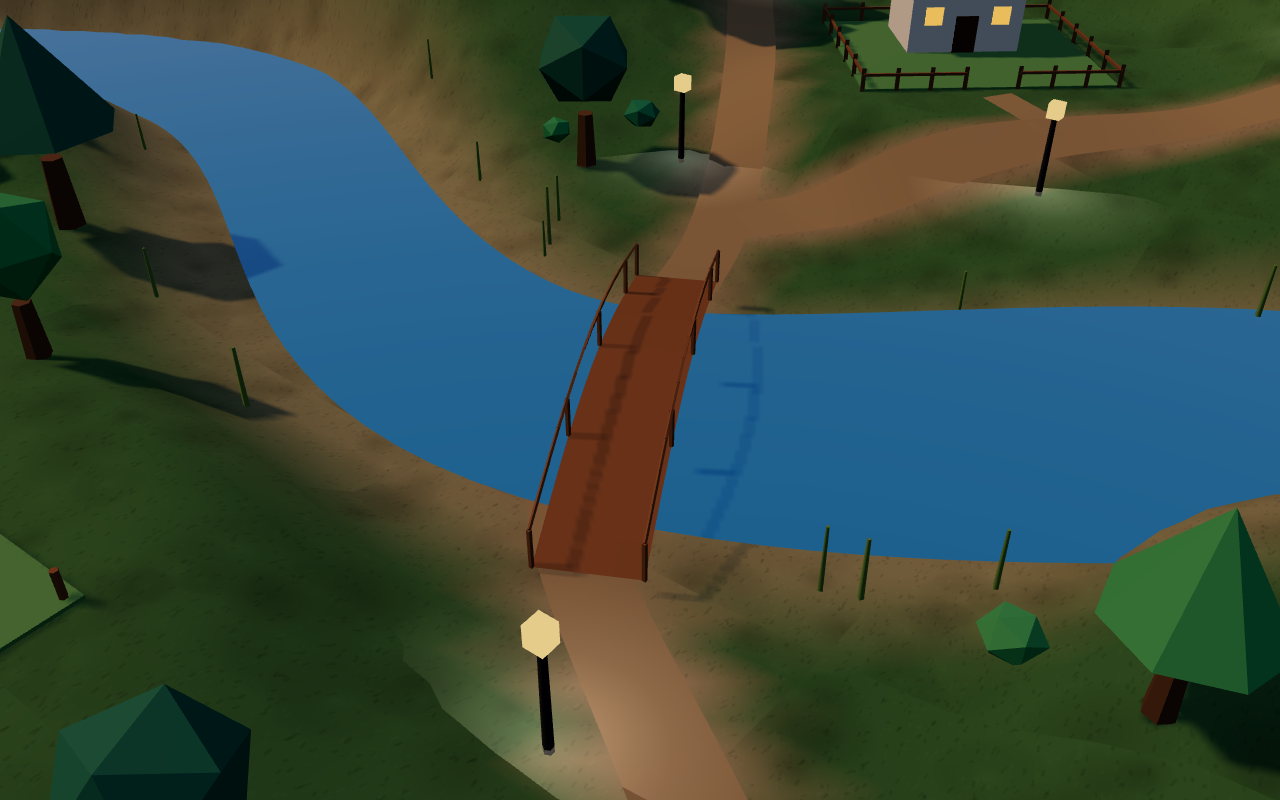
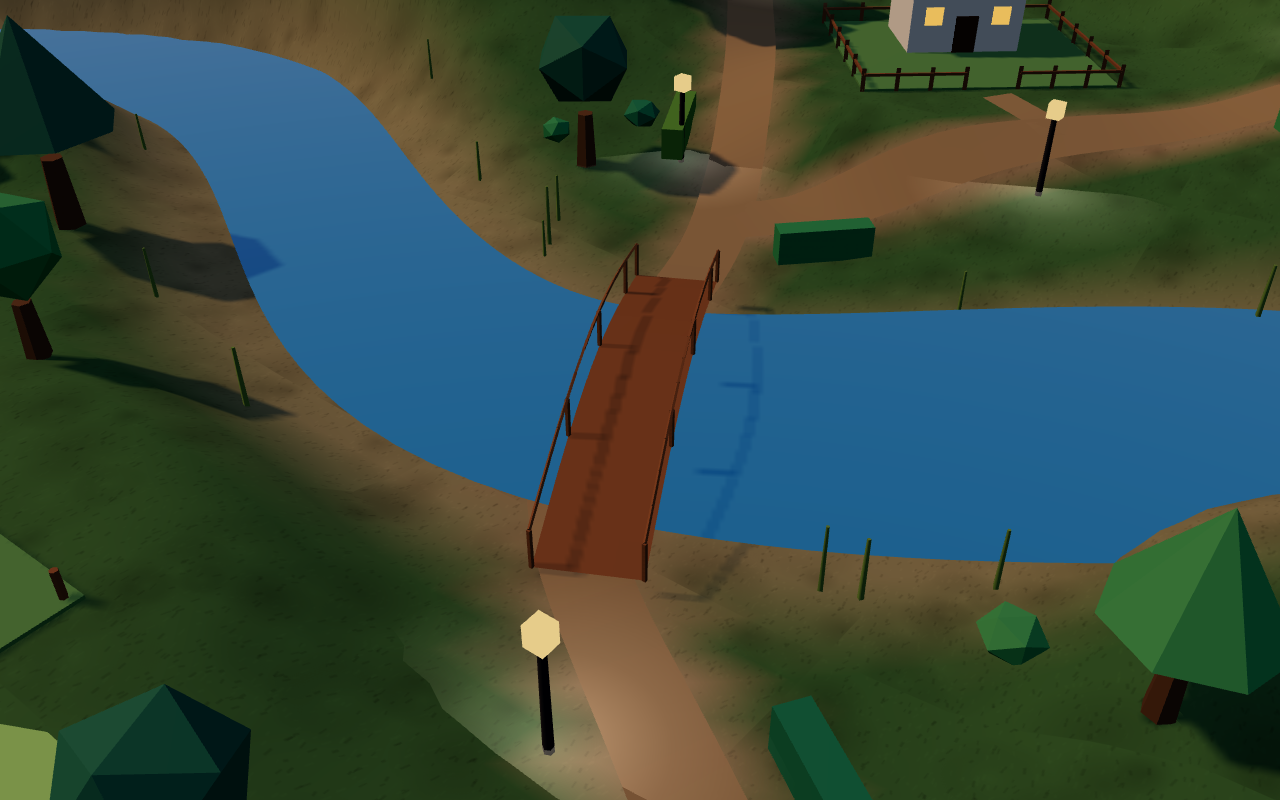
L.6 Hecken und Blumenwiesen
Kurze Heckenreihen neben den Wegen, flache Blumenflecken auf ebenem Boden.

diff --git a/web/src/world/scatter.ts b/web/src/world/scatter.ts
@@ -208,3 +208,84 @@ export function placeFlowers(layout: Layout, maxFlowers = 120): Scatter[] {
   }
   return out;
 }
+
+/** A clipped hedge beside a lane: a short row, turned along the lane. */
+export interface Hedge extends Scatter {
+  len: number;
+}
+
+/**
+ * Hedges along the lanes (LOOK §8): about every 3.6 m of lane, on one side, 1.6 m from the centre line.
+ * Half of the spots stay empty, so the hedges come in short rows.
+ */
+export function placeHedges(layout: Layout, maxHedges = 60): Hedge[] {
+  const rng = createRng(layout.seed * 223 + 23);
+  const s = layout.laneSamples;
+  const out: Hedge[] = [];
+  const step = 3;
+  for (let i = 4; i < s.length - 4 && out.length < maxHedges; i += step) {
+    if (rng() < 0.5) continue;
+    const a = s[i - 1];
+    const b = s[i + 1];
+    const tx = b.x - a.x;
+    const tz = b.z - a.z;
+    const l = Math.hypot(tx, tz) || 1;
+    const side = rng() < 0.5 ? 1 : -1;
+    const off = 1.6 + rng() * 0.3;
+    const x = s[i].x - (tz / l) * off * side;
+    const z = s[i].z + (tx / l) * off * side;
+    if (!freeForNature(layout, x, z, 1.4)) continue;
+    out.push({
+      x,
+      z,
+      y: layout.terrain.groundHeight(x, z),
+      scale: 1,
+      rot: Math.atan2(tx, tz),
+      len: 2.4 + rng() * 1.2,
+    });
+  }
+  return out;
+}
+
+/** A blossom meadow: a flat patch on free ground with a few flowers scattered on it. */
+export interface Meadow {
+  x: number;
+  z: number;
+  y: number;
+  radius: number;
+  flowers: Array<{ x: number; y: number; z: number; colour: number }>;
+}
+
+/** Meadows on free ground away from paths, plots and water. Flowers stay inside the radius. */
+export function placeMeadows(layout: Layout, maxMeadows = 14): Meadow[] {
+  const rng = createRng(layout.seed * 229 + 29);
+  const out: Meadow[] = [];
+  for (let tries = 0; tries < 4000 && out.length < maxMeadows; tries++) {
+    const x = (rng() - 0.5) * VALLEY_RADIUS * 2;
+    const z = (rng() - 0.5) * VALLEY_RADIUS * 2;
+    if (!freeForNature(layout, x, z, 3.5)) continue;
+    if (out.some((m) => Math.hypot(m.x - x, m.z - z) < 9)) continue;
+    const radius = 2.2 + rng() * 1.2;
+    // flat ground only: the flat patch would sink into a slope
+    const h0 = layout.terrain.groundHeight(x, z);
+    const level = [0, 1, 2, 3].every((k) => {
+      const q = (k * Math.PI) / 2 + 0.4;
+      const h = layout.terrain.groundHeight(x + Math.cos(q) * radius * 0.9, z + Math.sin(q) * radius * 0.9);
+      return Math.abs(h - h0) < 0.2;
+    });
+    if (!level) continue;
+    const count = 9 + Math.floor(rng() * 6);
+    const flowers: Meadow['flowers'] = [];
+    for (let k = 0; k < count; k++) {
+      const a = rng() * Math.PI * 2;
+      const r = Math.sqrt(rng()) * radius * 0.9;
+      const fx = x + Math.cos(a) * r;
+      const fz = z + Math.sin(a) * r;
+      if (!freeForNature(layout, fx, fz, 2.0)) continue;
+      flowers.push({ x: fx, y: layout.terrain.groundHeight(fx, fz), z: fz, colour: Math.floor(rng() * 5) });
+    }
+    if (flowers.length < 4) continue;
+    out.push({ x, z, y: layout.terrain.groundHeight(x, z), radius, flowers });
+  }
+  return out;
+}

diff --git a/web/src/render/nature.ts b/web/src/render/nature.ts
@@ -8,7 +8,9 @@ import type { Layout } from '../world/layout';
 import {
   placeBushes,
   placeFlowers,
+  placeHedges,
   placeLamps,
+  placeMeadows,
   placeReeds,
   placeRocks,
   placeTrees,
@@ -171,6 +173,7 @@ export function buildNature(layout: Layout): THREE.Group {
 
 const BUSH = ['#3f8f5a', '#4d9a5d', '#2f7d5b', '#5d8f3e'];
 const FLOWER = ['#f2c94c', '#eb5757', '#f2a7d0', '#ffffff', '#bb6bd9'];
+const MEADOW = ['#a9d17a', '#93c26a', '#b8d98a'];
 
 /** Shrubs, rocks, reeds and flower patches (SPEC §10.6), all as instanced meshes. */
 export function buildVegetation(layout: Layout): THREE.Group {
@@ -229,6 +232,42 @@ export function buildVegetation(layout: Layout): THREE.Group {
     ),
   );
 
+  // hedges: clipped rows beside the lanes (LOOK §8)
+  const hedges = placeHedges(layout);
+  const hedgeGeo = new THREE.BoxGeometry(1, 1, 1);
+  hedgeGeo.translate(0, 0.5, 0);
+  root.add(
+    instanced(
+      hedgeGeo,
+      new THREE.MeshStandardMaterial({ color: '#ffffff', flatShading: true, roughness: 0.85 }),
+      hedges.length,
+      (i, m) => {
+        const h = hedges[i];
+        m.makeRotationY(h.rot)
+          .scale(new THREE.Vector3(0.6, 0.9, h.len))
+          .setPosition(h.x, h.y, h.z);
+      },
+      (i) => pick(BUSH, i),
+    ),
+  );
+
+  // blossom meadows: a flat patch of lighter grass with flowers on it
+  const meadows = placeMeadows(layout);
+  root.add(
+    instanced(
+      new THREE.CircleGeometry(1, 14),
+      new THREE.MeshStandardMaterial({ color: '#ffffff', roughness: 0.95 }),
+      meadows.length,
+      (i, m) => {
+        const w = meadows[i];
+        m.makeRotationX(-Math.PI / 2)
+          .scale(new THREE.Vector3(w.radius, w.radius, 1))
+          .setPosition(w.x, w.y + 0.04, w.z);
+      },
+      (i) => pick(MEADOW, i),
+    ),
+  );
+
   // flower patches: five small blossoms around each patch centre
   const patches = placeFlowers(layout);
   const blossoms: Array<{ x: number; y: number; z: number; colour: number }> = [];
@@ -243,6 +282,9 @@ export function buildVegetation(layout: Layout): THREE.Group {
       });
     }
   });
+  for (const w of meadows) {
+    for (const f of w.flowers) blossoms.push({ x: f.x, y: f.y + 0.22, z: f.z, colour: f.colour });
+  }
   root.add(
     instanced(
       new THREE.SphereGeometry(0.12, 5, 4),

diff --git a/web/tests/world/scatter.test.ts b/web/tests/world/scatter.test.ts
@@ -1,6 +1,6 @@
 import { describe, it, expect } from 'vitest';
 import { buildLayout } from '../../src/world/layout';
-import { laneDistance, placeLamps, placeTrees } from '../../src/world/scatter';
+import { laneDistance, placeHedges, placeLamps, placeMeadows, placeTrees } from '../../src/world/scatter';
 import { MAP_IDS } from '../../src/world/maps';
 
 for (const mapId of MAP_IDS) {
@@ -68,6 +68,30 @@ for (const mapId of IDS) {
     it('keeps flowers off the paths', () => {
       for (const f of placeFlowers(layout))
         expect(laneDistance(layout, f.x, f.z)).toBeGreaterThanOrEqual(1.8);
+    });
+  });
+}
+
+for (const mapId of MAP_IDS) {
+  describe(`hedges and meadows on ${mapId}`, () => {
+    const layout = buildLayout(11, 34, mapId);
+
+    it('keeps hedges beside the lanes, never on them', () => {
+      const hedges = placeHedges(layout);
+      expect(hedges.length).toBeGreaterThan(0);
+      for (const h of hedges) expect(laneDistance(layout, h.x, h.z)).toBeGreaterThan(1.3);
+    });
+
+    it('places meadows with flowers inside their radius, off paths and plots', () => {
+      const meadows = placeMeadows(layout);
+      expect(meadows.length).toBeGreaterThan(0);
+      for (const m of meadows) {
+        expect(laneDistance(layout, m.x, m.z)).toBeGreaterThan(3.4);
+        for (const f of m.flowers) {
+          expect(Math.hypot(f.x - m.x, f.z - m.z)).toBeLessThanOrEqual(m.radius);
+          expect(laneDistance(layout, f.x, f.z)).toBeGreaterThan(1.9);
+        }
+      }
     });
   });
 }

diff --git a/docs/PLAN.md b/docs/PLAN.md
@@ -57,7 +57,7 @@ Ziel: 8a und 8b sind sauber getrennte Instanzen (SPEC §1a), und das Dorf sieht 
 | [ ] L.3 | CC | **Gelände, Wege, Fluss**: höhere Auflösung im Talboden, Wege und Platz als Vertex-Farbe/Splat ins Gelände, Gelände unter Wegen glätten, Flussbreite variabel, Ufer sauber unter Wasser, Ufersteine | `world/terrain.ts`, `render/terrain.ts` | keine Zacken/Durchstechen in Galerie-Nahaufnahmen (Befunde 4, 5) |
 | [~] L.4 | CC | **Wegenetz**: Hierarchie (2,2 / 1,5 / 1,0 m), keine Sackgassen, Wahrzeichen an Wegenden als Ziele im Wegegraph, Brücken mit Geländer und Rampen | `world/layout.ts`, `render/bridges.ts` | Vitest „keine Sackgassen“, „Wahrzeichen erreichbar“ grün (Befunde 6, 9) |
 | [ ] L.5 | CC | **Grundstücke**: Vergabe von innen nach außen (`plot_index` nach Wegstrecke), Hangregel, kurze Böschungen, Gartenweg ins Wegenetz, Zaun mit Pfosten und Tor, Haus mit Tür/Fenstern/Satteldach im Grundstück, **freie Plätze als Bauplatz** | `world/plots.ts`, `render/plots.ts`; Edge Function vergibt weiter den nächsten freien Index | Vitest für Reihenfolge und Hangregel; Galerie-Nahaufnahme ok (Befunde 7, 8, 11) |
-| [ ] L.6 | CC | **Vegetation und Details**: Poisson-Disk-Verteilung, Waldgürtel, Baumgruppen, Büsche, Hecken, Blumenwiesen, Felsen, Schilf; Mengen nach SPEC §10.6 | `world/scatter.ts`, `render/nature.ts` (InstancedMesh) | Vitest „nichts auf Wegen/Plätzen/Grundstücken/Wasser“, Mengen im Rahmen (Befund 1) |
+| [~] L.6 | CC | **Vegetation und Details**: Poisson-Disk-Verteilung, Waldgürtel, Baumgruppen, Büsche, Hecken, Blumenwiesen, Felsen, Schilf; Mengen nach SPEC §10.6 | `world/scatter.ts`, `render/nature.ts` (InstancedMesh) | Vitest „nichts auf Wegen/Plätzen/Grundstücken/Wasser“, Mengen im Rahmen (Befund 1) |
 | [ ] L.7 | CC | **Marktplatz und Licht**: Pflaster mit Ringmuster, Brunnen, Aufgabentafel zum Hauptzugang, 3 Stände, 4 Bänke, Kübel, Laternen an Wegen, leuchtende Fenster, Lichtflecken, Abendstimmung wie Prototyp | `render/plaza.ts`, `render/lights.ts` | Galerie-Bild Marktplatz vergleichbar mit Prototyp (Befunde 2, 3) |
 | [~] L.8 | CC | **Namen und Figuren**: keine Schilder an fremden Häusern, Figuren-Schilder ab ~30 m ausblenden, Name beim Antippen; Ziele der Figuren gleichmäßiger verteilen (Wahrzeichen, Häuser von Freunden), max. 3 an der Tafel | `render/crowd.ts`, `avatars/behaviour.ts` | Galerie-Übersicht ruhig lesbar; < 40 % der Figuren gleichzeitig am Platz (Befunde 12, 14) |
 | [x] L.9 | CC | **Leistung**: statische Szenerie je Material zusammenfassen, Instancing für Wiederholtes; Draw Calls und Dreiecke in der Galerie protokollieren | `render/merge.ts` | Welt < 60 Draw Calls, gesamt mit 32 Figuren < 150 (Befund 13) |
@@ -225,3 +225,4 @@ Ziel: Schüler kaufen Deko und gestalten ihr Grundstück; Mitschüler sehen es.
 | 17.10.2026 | L.4 teilweise | Wahrzeichen sind Wegeziele im Graph (`landmarks`, Test: alle erreichbar) und werden gezeichnet (`render/landmarks.ts`: Aussichtsbank, Steg, Windmühle, Obstwiese, Waldhütte). Brücken gebogen. Offen: **Sackgassen**: je Vorlage 1–2 Wegenden ohne Anschluss (`tal`: (-42,-42), (56,4); `fluss_mitte`: (-58,-18); `bach_norden`: (60,8), (40,-16), (-56,8)). Lösung in den Vorlagen (Weg bis Wahrzeichen oder Nachbarweg verlängern), dann Test „keine Sackgassen“ |
 | 17.10.2026 | L.4 Sackgassen, L.8 Namen | Sackgassen geschlossen: je Vorlage Verbindungswege (`connector`-Lanes in `world/maps/*.ts`), Test `tests/world/dead-ends.test.ts` grün. L.8 Namen: eigenes Haus immer, fremde Hausnamen nur unter 28 m (`render/village.ts` `labelUpdate`), Figuren-Schilder unter 28 m (`Crowd.updateLabels` in `render/crowd.ts`), Aufruf in der Animationsschleife (`ui/villageView.ts`). Offen: Figuren am Platz < 40 % prüfen, Name beim Antippen, Zielverteilung |
 | 17.10.2026 | L.8 Figuren am Platz | Höchstens 40 % der Figuren stehen gleichzeitig am Brunnen, an der Tafel oder auf dem Platzring (`PLAZA_SHARE_MAX` in `avatars/behaviour.ts`, Prüfung in `render/crowd.ts`). Ist der Platz voll, wählen Figuren stattdessen ein Ziel im Wegenetz. Vitest: volle Platz-Regel schickt niemanden dorthin (249 Tests grün). Offen: Name beim Antippen, Zielverteilung Wahrzeichen/Freunde |
+| 17.10.2026 | L.6 Hecken und Blumenwiesen | Hecken als kurze Reihen 1,6 m neben den Wegen (`placeHedges` in `world/scatter.ts`, Instancing in `render/nature.ts`). Blumenflecken: flache helle Wiese mit 9–14 Blüten, nur auf ebenem Boden (`placeMeadows`). Vitest: Hecken nie auf Wegen, Blumen innerhalb des Flecks und abseits von Wegen (255 Tests grün). Offen: Bepflanzung freier Grundstücke, Mengen nach SPEC §10.6 prüfen |
